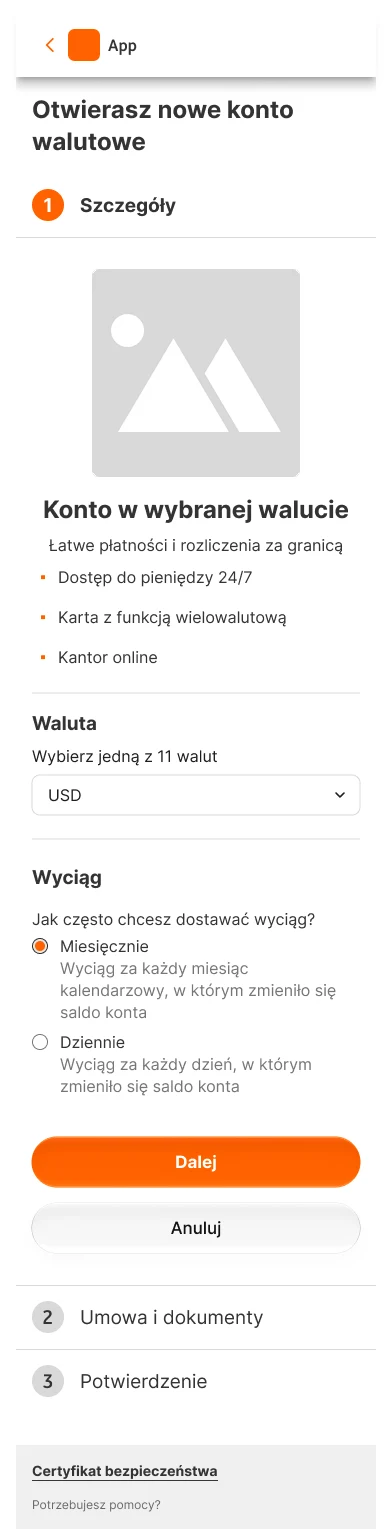
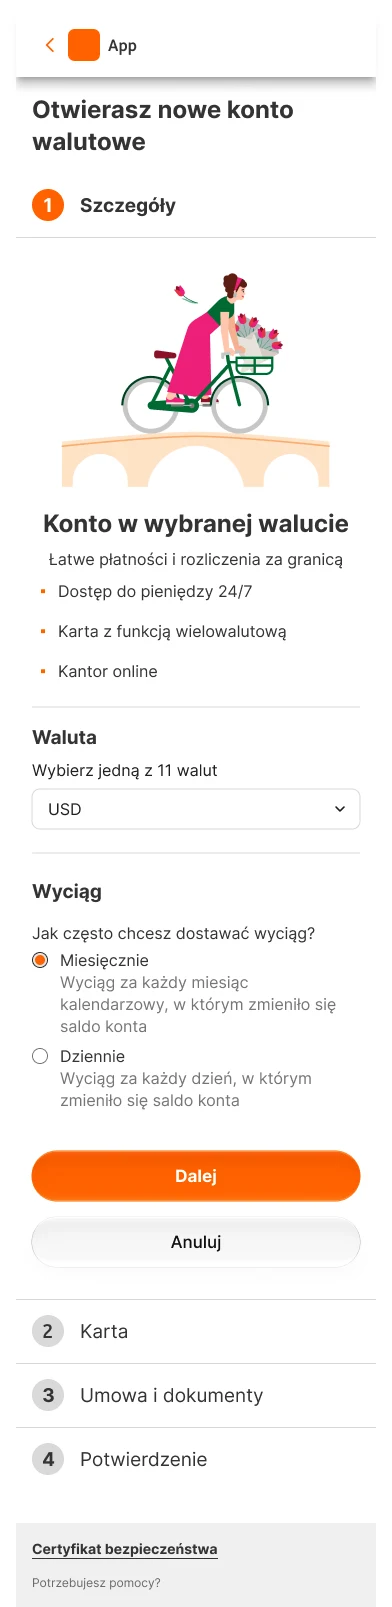
Konta walutowe: poprawione ekrany, krok 3 z dokumentami i zgodami do kantoru

diff --git a/src/i18n/translations.ts b/src/i18n/translations.ts
@@ -623,13 +623,13 @@ export const translations: Record<Lang, Record<string, string>> = {
     'fx.challenge.2.title': "Nowe usługi poza ścieżką",
     'fx.challenge.2.desc': "Karta wielowalutowa i inne nowe usługi dla firm już istniały, ale stary wniosek ich nie łączył. Klient sam musiał je odkryć i aktywować.",
     'fx.s3.heading': "Trzy kroki, jedna decyzja na krok",
-    'fx.s3.intro': "Cały wniosek podzieliliśmy na etapy, w których klient podejmuje po jednej decyzji.",
+    'fx.s3.intro': "Cały wniosek podzieliliśmy na etapy, w których klient podejmuje po jednej decyzji. Na końcu potwierdza wszystko kodem PIN.",
     'fx.role1.tag': "Krok 1: waluta",
     'fx.role1.body': "Klient wybiera, w jakiej walucie chce otworzyć nowe konto.",
     'fx.role2.tag': "Krok 2: karta",
     'fx.role2.body': "Decyduje, czy zamawia nową kartę do konta, czy podpina je do karty wielowalutowej, którą już ma. Nową kartę może odebrać w paczkomacie.",
-    'fx.role3.tag': "Krok 3: kantor",
-    'fx.role3.body': "Na końcu wyraża zgody potrzebne do korzystania z kantoru. Po złożeniu wniosku może od razu wymieniać waluty — bez osobnego wniosku.",
+    'fx.role3.tag': "Krok 3: dokumenty i kantor",
+    'fx.role3.body': "W jednej paczce dokumentów klient akceptuje umowę, regulaminy i zgody potrzebne do korzystania z kantoru. Po potwierdzeniu wniosku może od razu wymieniać waluty — bez osobnego wniosku.",
     'fx.s4.heading': "Najpierw prototyp, potem makiety",
     'fx.s4.intro': "Zamiast klasycznej kolejności — eksploracja, makiety o niskiej, a potem wysokiej szczegółowości — zaczęliśmy od działającego prototypu całej ścieżki, zbudowanego z pomocą AI (Copilot i Claude).",
     'fx.s4.t1': "Prototyp z AI na starcie",
@@ -657,8 +657,8 @@ export const translations: Record<Lang, Record<string, string>> = {
     'fx.ph.3': "Prototyp całej ścieżki zbudowany z AI",
     'fx.ph.4': "Krok 1 — szczegóły: waluta i wyciąg",
     'fx.ph.5': "Krok 2 — karta: podpięcie istniejącej lub zamówienie nowej",
-    'fx.ph.6': "Krok 3 — umowa i dokumenty",
-    'fx.ph.7': "Potwierdzenie — podsumowanie wniosku i kod PIN",
+    'fx.ph.6': "Krok 3 — umowa i dokumenty, w tym zgody do kantoru",
+    'fx.ph.7': "Krok 4 — potwierdzenie: podsumowanie wniosku i kod PIN",
     'fx.ph.8': "Gotowe — konto podłączone do karty, przejście do kantoru",
     'fx.gallery.heading': "Potwierdzenie i finał ścieżki",
     'nextproject.fx.overline': "Finanse / Product Design",
@@ -1289,13 +1289,13 @@ export const translations: Record<Lang, Record<string, string>> = {
     'fx.challenge.2.title': "New services outside the journey",
     'fx.challenge.2.desc': "The multi-currency card and other new business services already existed, but the old application did not connect them. Clients had to discover and activate them on their own.",
     'fx.s3.heading': "Three steps, one decision per step",
-    'fx.s3.intro': "We split the whole application into stages where the client makes one decision at a time.",
+    'fx.s3.intro': "We split the whole application into stages where the client makes one decision at a time, then confirms everything with a PIN.",
     'fx.role1.tag': "Step 1: currency",
     'fx.role1.body': "The client chooses the currency for the new account.",
     'fx.role2.tag': "Step 2: card",
     'fx.role2.body': "They decide whether to order a new card for the account or link it to a multi-currency card they already have. A new card can be collected from a parcel locker.",
-    'fx.role3.tag': "Step 3: FX exchange",
-    'fx.role3.body': "Finally, they give the consents needed to use the FX exchange. Once the application is submitted, they can exchange currencies straight away — no separate application.",
+    'fx.role3.tag': "Step 3: documents and FX",
+    'fx.role3.body': "In a single document package the client accepts the agreement, terms and the consents needed for the FX exchange. Once the application is confirmed, they can exchange currencies straight away — no separate application.",
     'fx.s4.heading': "Prototype first, designs second",
     'fx.s4.intro': "Instead of the classic order — exploration, then low- and high-fidelity designs — we started with a working prototype of the whole journey, built with AI (Copilot and Claude).",
     'fx.s4.t1': "An AI prototype from day one",
@@ -1323,8 +1323,8 @@ export const translations: Record<Lang, Record<string, string>> = {
     'fx.ph.3': "AI-built prototype of the whole journey",
     'fx.ph.4': "Step 1 — details: currency and statement",
     'fx.ph.5': "Step 2 — card: link an existing one or order a new one",
-    'fx.ph.6': "Step 3 — agreement and documents",
-    'fx.ph.7': "Confirmation — application summary and PIN",
+    'fx.ph.6': "Step 3 — agreement and documents, including FX consents",
+    'fx.ph.7': "Step 4 — confirmation: application summary and PIN",
     'fx.ph.8': "Done — account linked to the card, straight to the FX exchange",
     'fx.gallery.heading': "Confirmation and the end of the journey",
     'nextproject.fx.overline': "Finance / Product Design",
